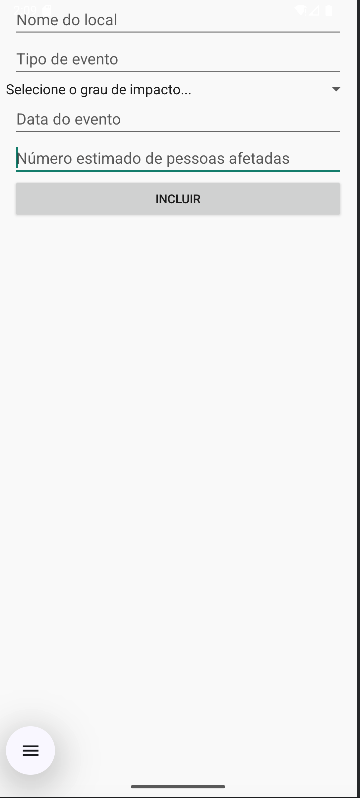
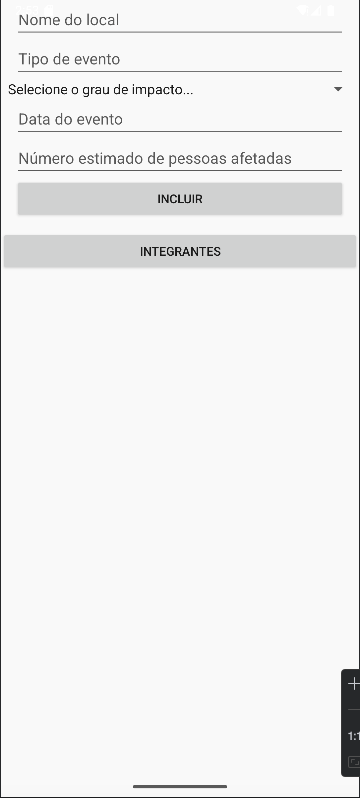
atualizações

diff --git a/app/src/main/java/amandacornelsen/github/com/alunos_rm98160_rm97760/MainActivity.kt b/app/src/main/java/amandacornelsen/github/com/alunos_rm98160_rm97760/MainActivity.kt
@@ -6,6 +6,7 @@ import androidx.appcompat.app.AppCompatActivity
 import androidx.recyclerview.widget.LinearLayoutManager
 import androidx.recyclerview.widget.RecyclerView
 import amandacornelsen.github.com.alunos_rm98160_rm97760.model.Evento
+import android.content.Intent
 
 class MainActivity : AppCompatActivity() {
     private lateinit var recyclerView: RecyclerView
@@ -21,6 +22,7 @@ class MainActivity : AppCompatActivity() {
         val dataEvento: EditText = findViewById(R.id.data)
         val eventos: EditText = findViewById(R.id.evento)
         val incluir: Button = findViewById(R.id.incluir)
+        val btnIntegrantes: Button = findViewById(R.id.Integrantes)
 
         val spinnerImpacto: Spinner = findViewById(R.id.spinnerImpacto)
         val adapterSpinner = ArrayAdapter.createFromResource(
@@ -99,6 +101,11 @@ class MainActivity : AppCompatActivity() {
             dataEvento.text.clear()
             eventos.text.clear()
             spinnerImpacto.setSelection(0)
+        }
+
+        btnIntegrantes.setOnClickListener {
+            val intent = Intent(this, IntegrantesActivity::class.java)
+            startActivity(intent)
         }
     }
 }

diff --git a/app/src/main/java/amandacornelsen/github/com/alunos_rm98160_rm97760/IntegrantesActivity.kt b/app/src/main/java/amandacornelsen/github/com/alunos_rm98160_rm97760/IntegrantesActivity.kt
@@ -1,0 +1,11 @@
+package amandacornelsen.github.com.alunos_rm98160_rm97760
+
+import android.os.Bundle
+import androidx.appcompat.app.AppCompatActivity
+
+class IntegrantesActivity : AppCompatActivity() {
+    override fun onCreate(savedInstanceState: Bundle?) {
+        super.onCreate(savedInstanceState)
+        setContentView(R.layout.activity_integrantes)
+    }
+}
